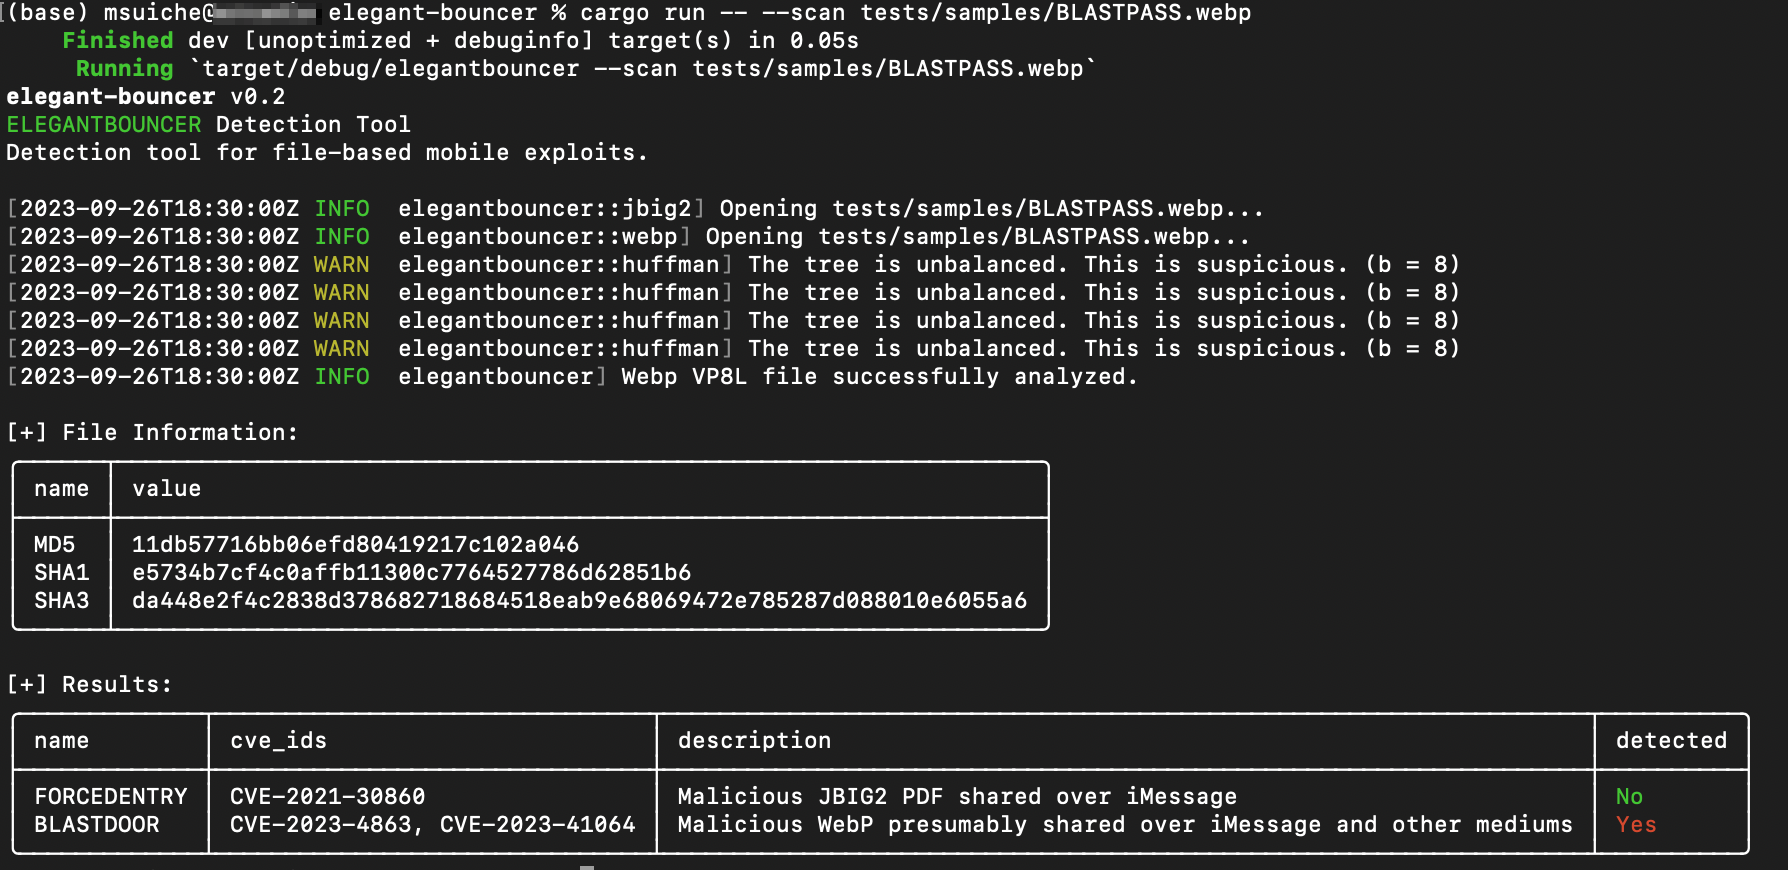
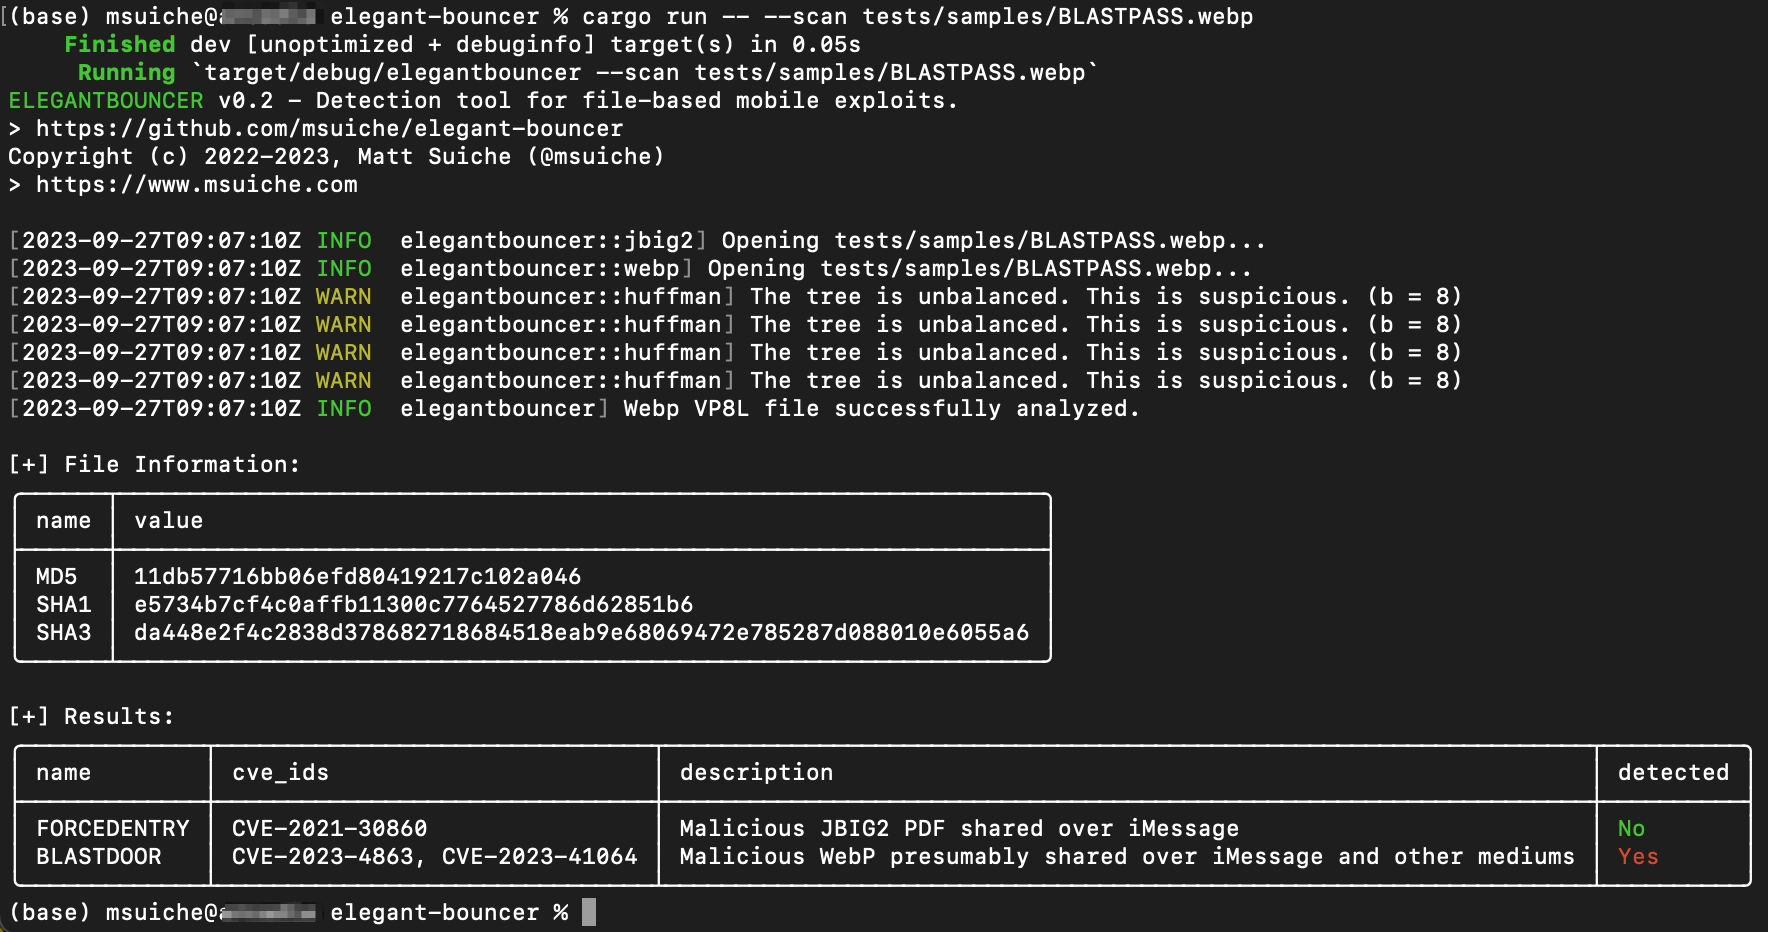
Update display

Changed region(s): [[0.0, 0.0, 0.9955, 1.0]]

diff --git a/src/main.rs b/src/main.rs
@@ -52,7 +52,7 @@ const CRATE_VERSION: &'static str =
 const CRATE_VERSION: &'static str = "0.2";
 
 #[derive(Parser)]
-#[clap(about, long_about = "A utility designed to detect the presence of known mobile APTs in commonly distributed files.", author="Copyright (c) 2022, All rights reserved.", version = CRATE_VERSION)]
+#[clap(about, long_about = "A utility designed to detect the presence of known mobile APTs in commonly distributed files.", author="Copyright (c) 2022-2023, Matt Suiche (@msuiche)", version = CRATE_VERSION)]
 struct Args {
     /// Print extra output while parsing
     #[clap(short, long)]
@@ -136,10 +136,10 @@ fn print_hashes(filename: &str) -> io::Result<()> {
 }
 
 fn main() -> Result<()> {
-    println!("{} v{}", "elegant-bouncer".bold(), CRATE_VERSION);
-    println!("{} Detection Tool", "ELEGANTBOUNCER".green());
-    println!("Detection tool for file-based mobile exploits.");
-    // println!("Supported CVEs: CVE-2021-30860, CVE-2023-4863, CVE-2023-41064");
+    println!("{} v{} - Detection tool for file-based mobile exploits.", "ELEGANTBOUNCER".green(), CRATE_VERSION);
+    println!("> https://github.com/msuiche/elegant-bouncer");
+    println!("Copyright (c) 2022-2023, Matt Suiche (@msuiche)");
+    println!("> https://www.msuiche.com");
     println!("");
 
     let args = Args::parse();
